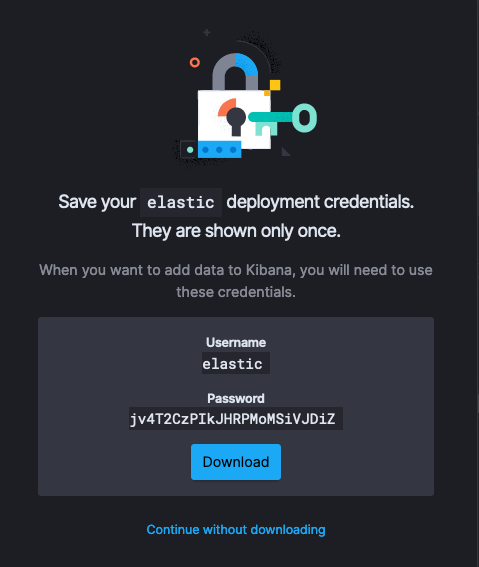
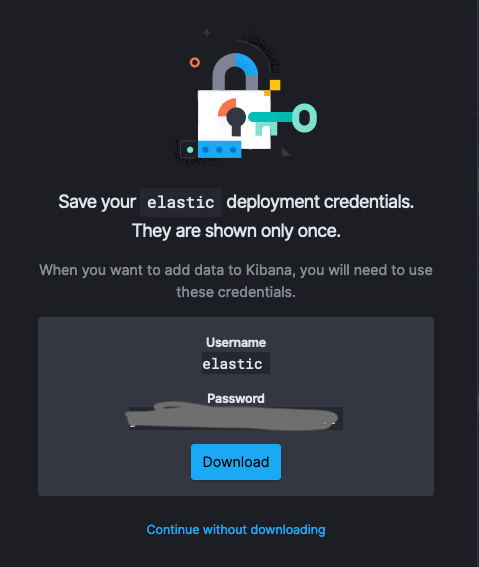
Updatae image size

Changed region(s): [[0.263, 0.6896, 0.7015, 0.7795]]

diff --git a/Labs-ElasticCloud/Lab1.md b/Labs-ElasticCloud/Lab1.md
@@ -12,45 +12,43 @@
 
 Visit [https://cloud.elastic.co](https://cloud.elastic.co) and click “Sign up now”
 
-<img src="/Labs-ElasticCloud/images/cloud0.png" alt="virtual_class" width="500" height="400">
+<img src="/Labs-ElasticCloud/images/cloud0.png" alt="virtual_class" width="600" height="350">
 
 2. Enter your business email and a password and click on Create account. 
 
-<img src="/Labs-ElasticCloud/images/cloud1.png" alt="virtual_class" width="500" height="300">
+<img src="/Labs-ElasticCloud/images/cloud1.png" alt="virtual_class" width="650" height="400">
 
 3. You should now be looking at the Welcome Screen for your trial account.  Click “Create deployment”.
 
-<img src="/Labs-ElasticCloud/images/cloud2.png" alt="virtual_class" width="500" height="400">
+<img src="/Labs-ElasticCloud/images/cloud2.png" alt="virtual_class" width="470" height="380">
 
 6.  Give your deployment a name. 
 
-<img src="/Labs-ElasticCloud/images/cloud3.png" alt="virtual_class" width="500" height="750">
+<img src="/Labs-ElasticCloud/images/cloud3.png" alt="virtual_class" width="650" height="690">
 
-7.  You have the choice here to pick a public cloud platform and region of your choice. For the labs let the default region be the pick. 
+7.  You have the choice here to pick a public cloud platform and region of your choice. For the labs let's use the default region. 
 
 8.  Select the default/latest version of Elastic.
 
 9.  Select the I/O Optimized template
 
-<img src="/Labs-ElasticCloud/images/cloud4.png" alt="virtual_class" width="800" height="300">
+<img src="/Labs-ElasticCloud/images/cloud4.png" alt="virtual_class" width="600" height="390">
 
 10.  Click “Create deployment”.
 
-11. Turn on <code>Machine Learning</code></strong> by clicking <strong><code>Enable</code></strong>.
+11. Turn on <strong><code>Machine Learning</code></strong> by clicking <strong><code>Enable</code></strong>.
 
-<img src="/Labs-ElasticCloud/images/cloud6.png" alt="virtual_class" width="400" height="150">
+<img src="/Labs-ElasticCloud/images/cloud6.png" alt="virtual_class" width="450" height="300">
 
-13.  Click <code>Create deployment</code></strong>. Your cluster will begin to spin up.  It takes between 3 - 6 minutes to complete.
+13.  Click <strong><code>Create deployment</code></strong>. Your cluster will begin to spin up.  It takes between 3 - 6 minutes to complete.
 
-<img src="/Labs-ElasticCloud/images/img13.png" alt="virtual_class" width="300" height="50">
+Please copy **the auto generated password** and download it as well.
 
-Please copy **the auto generated password** and down it.  \
-
-<img src="/Labs-ElasticCloud/images/cloud7.png" alt="virtual_class" width="400" height="300">
+<img src="/Labs-ElasticCloud/images/cloud7.png" alt="virtual_class" width=470" height="560">
 
 14.  When the cluster is ready, click on launch next to the Kibana icon
 
-<img src="/Labs-ElasticCloud/images/cloud8.png" alt="virtual_class" width="400" height="150">
+<img src="/Labs-ElasticCloud/images/cloud8.png" alt="virtual_class" width="620" height="420">
 
 That’s it for this lab! You have a deployment now ready to start ingesting and working with the data. 
 
